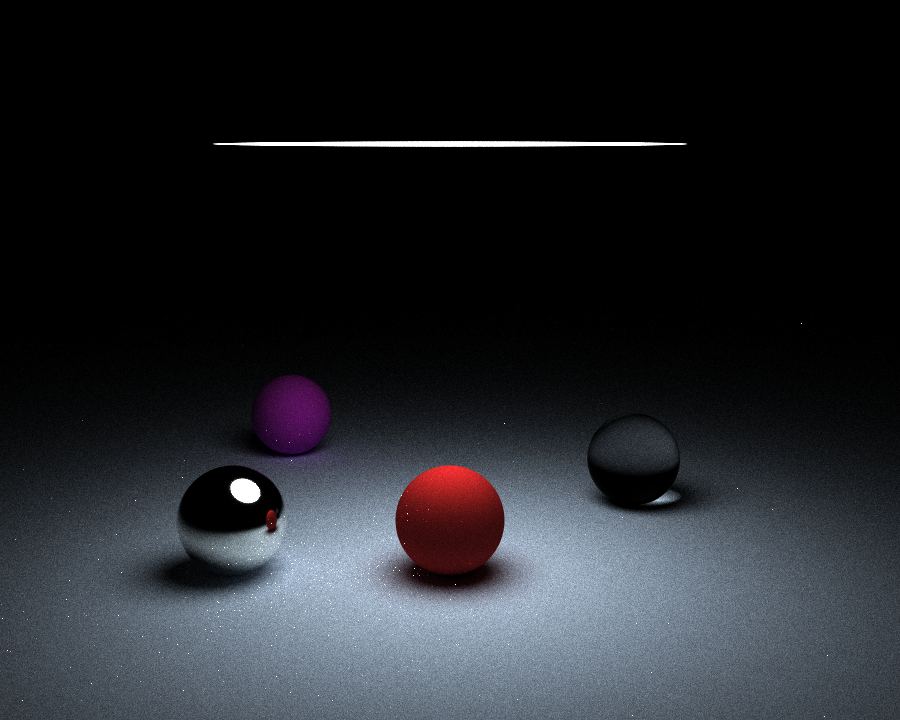
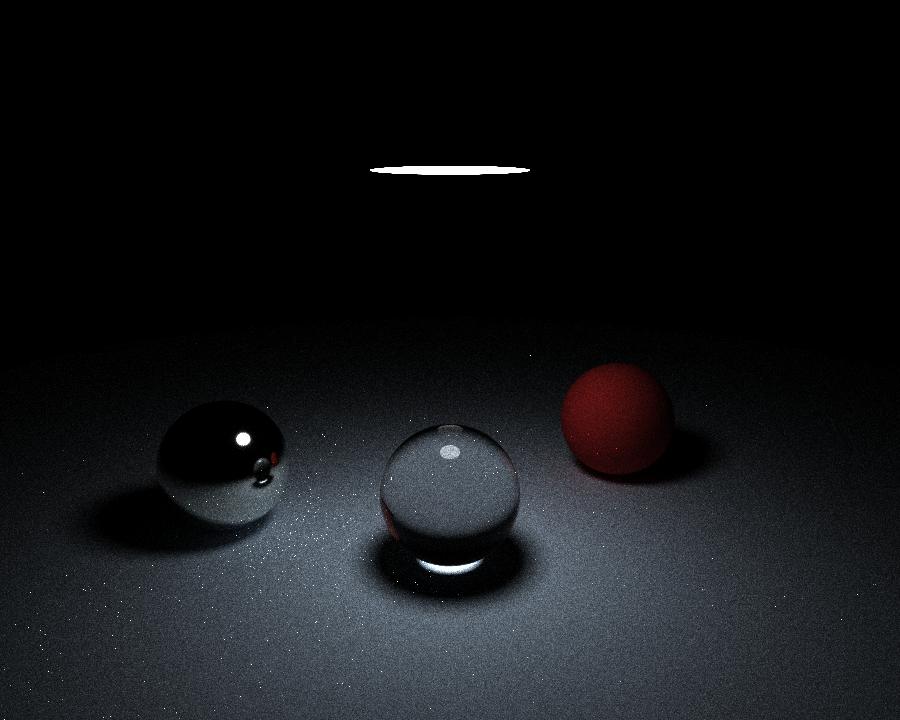
Fixed Dielectric

diff --git a/src/main.cpp b/src/main.cpp
@@ -15,7 +15,7 @@ constexpr auto image_output       = "output.png";
 constexpr auto image_width        = 900;
 constexpr auto image_height       = 720;
 constexpr auto samples_per_pixel  = 32;
-constexpr auto max_depth          = 50;
+constexpr auto max_depth          = 5;
 constexpr auto num_threads        = 10;
 constexpr auto tile_size          = 32; // 32x32
 constexpr auto tiles_x            = (image_width + tile_size - 1) / tile_size;
@@ -62,8 +62,15 @@ Color3f compute_shading(Ray r, const Scene& scene, RandomGenerator& rng, i32 dep
   auto hit = scene.intersect(r);
   if (!hit)
   {
-    if (auto env = scene.environment_light())
-      return env->Le;
+    //static auto sky_color = [](Vector3f d){ f32 t = 0.5f * (d.y + 1.f); return lerp(Color3f{1.f, 1.f, 1.f}, Color3f{0.5f, 0.7f, 1.f}, t); };
+    //return sky_color(r.d);
+
+    if (const auto& env = scene.environment_light())
+    {
+      auto light = env.value();
+      auto emission = std::visit([&](const auto& l) { return L(l, r.o, Vector3f{0,0,1}, r.d); }, light);
+      return emission;
+    }
     return Color3f{0.f};
   }
 
@@ -71,14 +78,15 @@ Color3f compute_shading(Ray r, const Scene& scene, RandomGenerator& rng, i32 dep
   // All BSDF math happens in this local space, where the normal is the +z axis.
   TangentFrame frame{hit->n};
   Vector3f wo = frame.to_local(-r.d); // in local shading frame
-  Color3f Lo = hit->Le;
+
+  Color3f Lo_direct = Color3f{0.f};
+  Color3f Lo_indirect = Color3f{0.f};
 
   // Explicit light sampling: point and area lights
   for(const auto& light : scene.lights())
   {
     LightSample ls = std::visit([&](const auto& l) { return sample_Li(l, hit->p, rng); }, light); // wi, Li, pdf, distance
-    Color3f contribution = direct_illumination(scene, ls, *hit, frame, wo);
-    Lo += contribution;
+    Lo_direct += direct_illumination(scene, ls, *hit, frame, wo);
   }
 
   // Continue the path with one BSDF sample
@@ -90,10 +98,10 @@ Color3f compute_shading(Ray r, const Scene& scene, RandomGenerator& rng, i32 dep
     Point3f origin = hit->p + hit->n * (side * 1e-3f);
     Ray new_ray{origin, wi_world, MAX_FLOAT_32};
     Color3f Li = compute_shading(new_ray, scene, rng, depth - 1);
-    Lo += (bs.f * bs.cos_i * Li) / bs.pdf;
+    Lo_indirect += (bs.f * bs.cos_i * Li) / bs.pdf;
   }
 
-  return Lo;
+  return hit->Le + Lo_direct + Lo_indirect;
 }
 
 void render_tile(i32 tile_idx, const Scene& scene, Camera& cam, RandomGenerator& rng)
@@ -122,9 +130,9 @@ void render_tile(i32 tile_idx, const Scene& scene, Camera& cam, RandomGenerator&
 
 void render_to_image(Camera& cam)
 {
-  auto filename = ::image_output;
-  auto width    = ::image_width;
-  auto height   = ::image_height;
+  auto filename = ::image_output; // global constant
+  auto width    = ::image_width;  // global constant
+  auto height   = ::image_height; // global constant
   constexpr auto channels = 3;
 
   std::vector<u8> pixels(width * height * channels);
@@ -160,69 +168,80 @@ void render_to_image(Camera& cam)
 i32 main()
 {
   Camera camera{
-    Point3f{0.f, 1.f, -5.f}, // position
-    Point3f{0.f, 0.f, 0.f},   // look at
-    35.f,                     // FOV in degrees,
+    Point3f{0.f, 5.f, -10.f}, // position
+    Point3f{0.f, 2.f, 0.f},   // look at
+    50.f,                     // FOV in degrees,
     image_width, image_height
   };
+
+  std::shared_ptr<ImageHDR> hdr_image;
+  if(auto res = stb::load_image_rgb32("hdr/meadow.hdr"))
+  {
+    ImageHDR img = res.value();
+    std::println("Loaded HDR environment map: {}x{} pixels, {} channels", img.width, img.height, img.channels);
+    hdr_image = std::make_shared<ImageHDR>(std::move(img));
+  }
+  else
+    throw std::runtime_error("Failed to load HDR environment map");
 
   // ==============================
   // Set up scene
   // ==============================
 
   Disk disk_emitter{
-    Point3f{0.f, 0.95f, 0.f},      // center position
+    Point3f{0.f, 4.5f, 0.f},      // center position
     Vector3f{0.f, -1.f, 0.f},      // normal vector
     1.f,                          // radius
     Diffuse{Color3f{0.f}},         // material: zero albedo -> no reflection
-    Color3f{1.f} * 2.f,           // Le (white)
+    Color3f{1.f} * 8.f,           // Le (white)
     true                           // two_sided
   };
 
   Sphere sphere_emitter{
-    Point3f{ 0.f, 0.5f, 1.f },          // center
-    0.5f,                              // radius
+    Point3f{ 0.f, 4.f, 0.f },          // center
+    0.75f,                              // radius
     Diffuse{Color3f{0.f}},             // material: zero albedo -> pure emitter
-    Color3f{1.0f} * 4,                  // Le
+    Color3f{1.0f} * 8,                  // Le
     true                               // two_sided
   };
 
   PointLight point_light{
-    Point3f{0.5f, 2.f, 0.f}, // position
+    Point3f{0.0f, 4.f, 0.f}, // position
     30.f                     // intensity
   };
 
-  UniformInfiniteLight env_light{
-    Color3f{0.25},    // Le ambient light
+  UniformInfiniteLight uniform_env_map{
+    Color3f{0.5},    // Le ambient light
     50.f                          // Radius of the sphere that surrounds the scene
+  };
+
+  ImageInfiniteLight image_env_map{
+    .radiance_map = hdr_image,  // HDR environment map
+    .r = 50.f                 // Radius of the sphere that surrounds the scene
   };
 
   Scene scene;
 
   //scene.add_light(point_light);
   //scene.add_light(DiffuseAreaLight{disk_emitter});
-  scene.add_light(DiffuseAreaLight{sphere_emitter});
-  scene.set_environment_light(env_light);
+  //scene.add_light(DiffuseAreaLight{sphere_emitter});
+  //scene.set_environment(uniform_env_map);
+  scene.set_environment(image_env_map);
 
   scene.add_object(Disk{
     Point3f{0.f, -1.f, 0.f},
     Vector3f{0.f, 1.f, 0.f},
-    10.f,
+    15.f,
     Diffuse{.albedo = Color3f{0.8f, 0.9f, 1.f}}
   });
   scene.add_object(Sphere{
-    Point3f{0.f, -0.75f, 0.f},
-    0.25f,
-    Diffuse{.albedo = Color3f{0.75f, 0.15f, 0.15}}
+    Point3f{3.f, 0.f, 3.f},
+    1.f,
+    Diffuse{.albedo = Color3f{0.75f, 0.15f, 0.15}} // red diffuse
   });
   scene.add_object(Sphere{
-    Point3f{-1.f, -0.75f, 2.f},
-    0.25f,
-    Diffuse{.albedo = Color3f{0.75f, 0.15f, 0.75}}
-  });
-  scene.add_object(Sphere{
-    Point3f{-1.f, -0.75f, 0.f},
-    0.25f,
+    Point3f{-3.5f, 0.f, 1.f},
+    1.f,
     Conductor{
       .eta = Color3f{0.155, 0.116, 0.138}, // polished silver
       .k   = Color3f{4.83, 3.99, 2.48},
@@ -230,11 +249,11 @@ i32 main()
     }
   });
   scene.add_object(Sphere{
-    Point3f{1.f, -0.75f, 1.f},
-    0.25f,
+    Point3f{0.f, 0.f, 0.f},
+    1.f,
     Dielectric{
       .eta = 1.5f, // smooth glass
-      .alpha_x = 0.0001f, .alpha_y = 0.0001f
+      .alpha_x = 0.01f, .alpha_y = 0.01f
     }
   });
 
